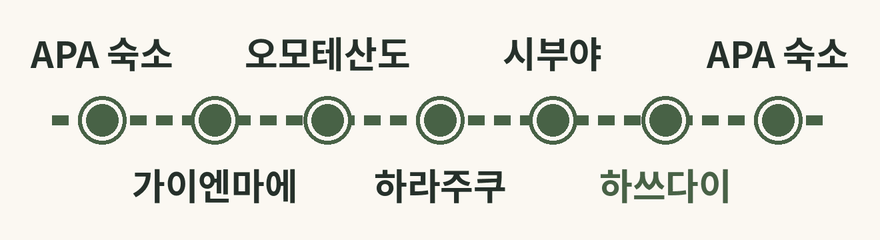
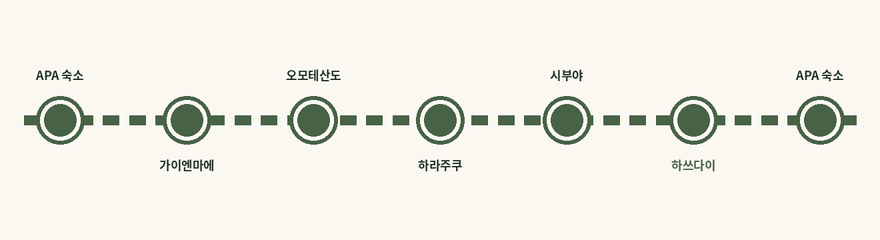
Extend route lines and reduce stop label size

diff --git a/index.html b/index.html
@@ -45,5 +45,5 @@
 <section id="sources" class="section"><div class="sectionhead"><div><span class="sectionindex">Source notes / Updated 2026.11.06</span><h2>가격의 기준과 공식 안내</h2></div><p>운임은 현재 공지·경로 검색의 참고금액.<br>출발일의 시간표·예약 화면에서 최종 확인하세요.</p></div><div class="sources" id="sourceslist"></div></section>
 </main><footer class="wrap"><span class="wordmark">our days<em>.</em></span><span>첫 번째 기념일을 위한 도쿄 노트 · 2026<br>계획용 일정 / 예약·결제 기능 없음</span><a href="#">맨 위로 ↑</a></footer>
 <div class="toast" id="toast" role="status" hidden></div>
-<script src="data.js"></script><script src="app.js?v=routes-7"></script>
+<script src="data.js"></script><script src="app.js?v=routes-8"></script>
 </body></html>

diff --git a/app.js b/app.js
@@ -45,7 +45,7 @@
   "APA → 아사쿠사선으로 아사쿠사 → 도보로 고토부키의 nobori와 구라마에의 proto → 아사쿠사선으로 APA에 돌아와 짐 찾기 → 공항철도로 나리타 제3터미널. 16:30 도착 목표."
 ];
  function routeMap(d) {
-  const file = `route-maps/day-${String(d.id + 1).padStart(2, '0')}.png?v=7`;
+  const file = `route-maps/day-${String(d.id + 1).padStart(2, '0')}.png?v=8`;
   return `<figure class="route-map">
    <img src="${file}" width="880" height="240" alt="${esc(routeMapDescriptions[d.id])}" loading="lazy" decoding="async">
    <figcaption><span>이동 순서도 · 축척 없음</span><a href="${file}" target="_blank" rel="noopener noreferrer" aria-label="${d.date} 이동 지도 크게 보기">지도 크게 보기</a></figcaption>
